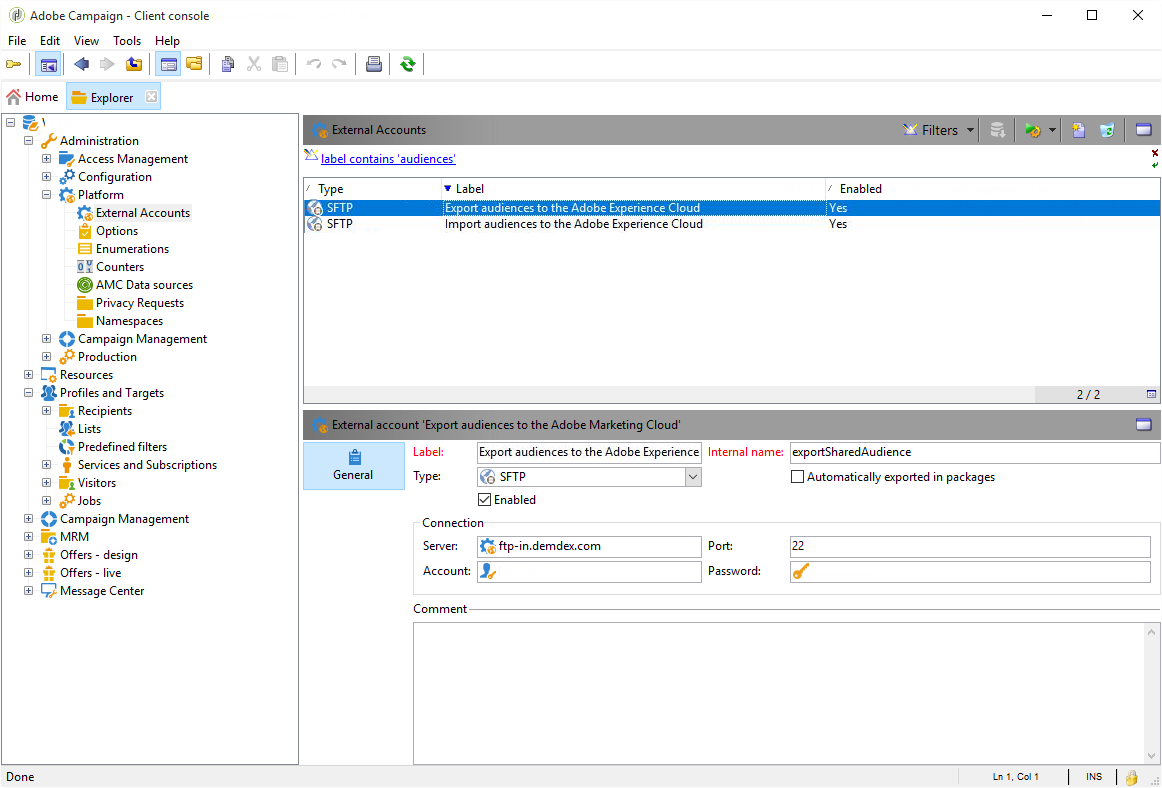
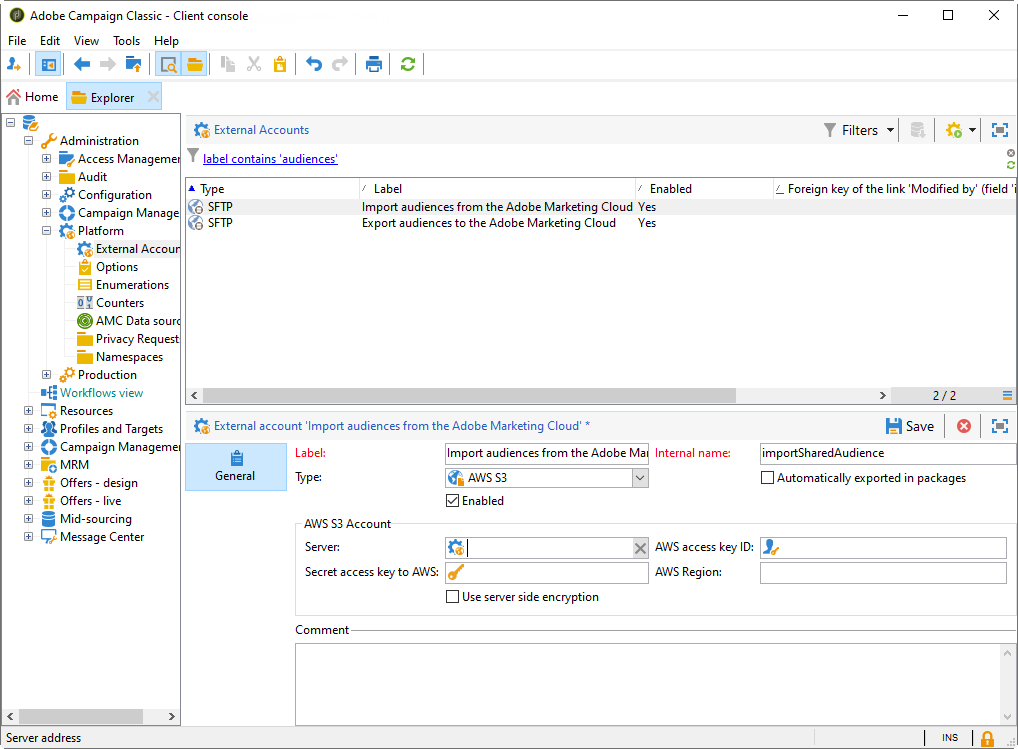
deprecated demdex

diff --git a/help/integrations/using/configuring-shared-audiences-integration-in-adobe-campaign.md b/help/integrations/using/configuring-shared-audiences-integration-in-adobe-campaign.md
@@ -32,24 +32,40 @@ First, we need to configure or check the external accounts in Adobe Campaign as 
 1. Click the **[!UICONTROL Explorer]** icon.
 1. Go to **[!UICONTROL Administration > Platform > External accounts]**. The mentioned SFTP accounts should have been configured by Adobe and the necessary information should have been communicated to you.
 
-    * **[!UICONTROL importSharedAudience]** : SFTP account dedicated to importing audiences.
-    * **[!UICONTROL exportSharedAudience]** : SFTP account dedicated to exporting audiences.
+    * **[!UICONTROL importSharedAudience]**: SFTP account dedicated to importing audiences.
+    * **[!UICONTROL exportSharedAudience]**: SFTP account dedicated to exporting audiences.
 
    ![](assets/aam_config_1.png)
 
-1. Fill in the **[!UICONTROL Server]** field: **ftp-out.demdex.com** domain for the import external account and **ftp-in.demdex.com** domain for the export external account.
+1. Select the **[!UICONTROL Export audiences to the Adobe Marketing Cloud]** external account.
 
-   Remember that an export from Campaign is an import for Audience Manager or People core service.
+1. From the **[!UICONTROL Type]** drop-down, select **[!UICONTROL AWS S3]**.
+
+1. Provide the following details:
+
+   * **[!UICONTROL AWS S3 Account Server]**
+   URL of your server, it should be filled as follows:
+
+      ```
+      <S3bucket name>.s3.amazonaws.com/<s3object path>
+      ```
+
+   * **[!UICONTROL AWS access key ID]**
+  To know where to find your AWS access key ID, refer to this [page](https://docs.aws.amazon.com/general/latest/gr/aws-sec-cred-types.html#access-keys-and-secret-access-keys) .
+
+   * **[!UICONTROL Secret access key to AWS]**
+  To know where to find your secret access key to AWS, refer to this [page](https://aws.amazon.com/fr/blogs/security/wheres-my-secret-access-key/).
+
+   * **[!UICONTROL AWS Region]**
+  To learn more on AWS region, refer to this [page](https://aws.amazon.com/about-aws/global-infrastructure/regions_az/).
 
    >[!NOTE]
    >
-   >If you are using S3, enter your **[!UICONTROL AWS S3 Account Server]** following this syntax:   
-     `<S3bucket name>.s3.amazonaws.com/<s3object path>`     
-     For more information on how to configure your S3 account, refer to this [page](../../platform/using/external-accounts.md#amazon-simple-storage-service--s3--external-account).
+   >If you are using demdex, fill in the **[!UICONTROL Server]** field: **ftp-out.demdex.com** domain for the import external account and **ftp-in.demdex.com** domain for the export external account. <br>Note that demdex is now deprecated, we advise using Amazon Simple Storage Service (S3) connector to import or export data. For more on this, refer to the Deprecated features page.
 
    ![](assets/aam_config_2.png)
 
-1. Add the **[!UICONTROL Account]** and **[!UICONTROL Password]** provided by Adobe.
+1. Click **[!UICONTROL Save]** and configure the **[!UICONTROL Import audiences from the Adobe Marketing Cloud]** external account as detailed in the previous steps.
 
 Your external accounts are now configured.
 
